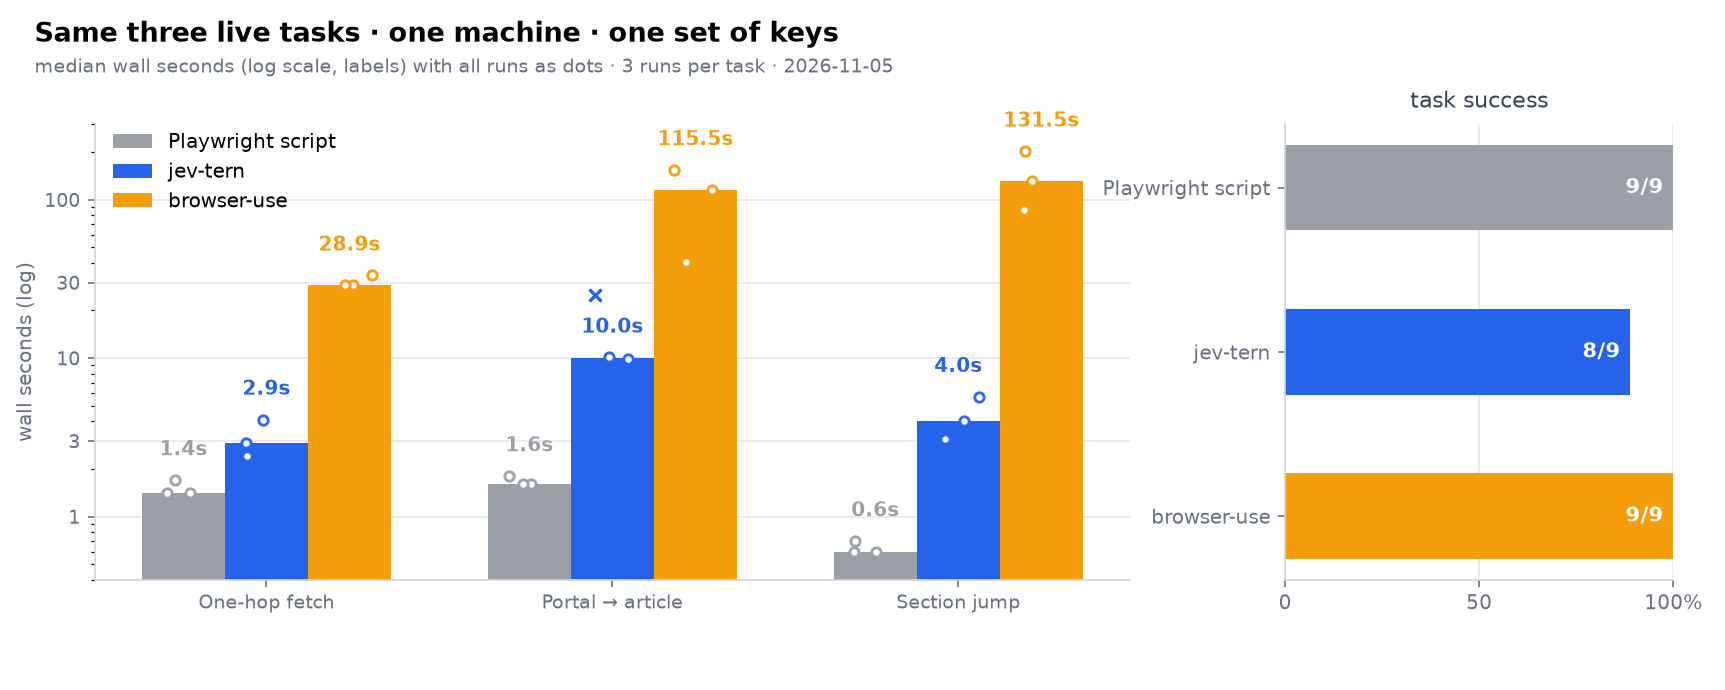
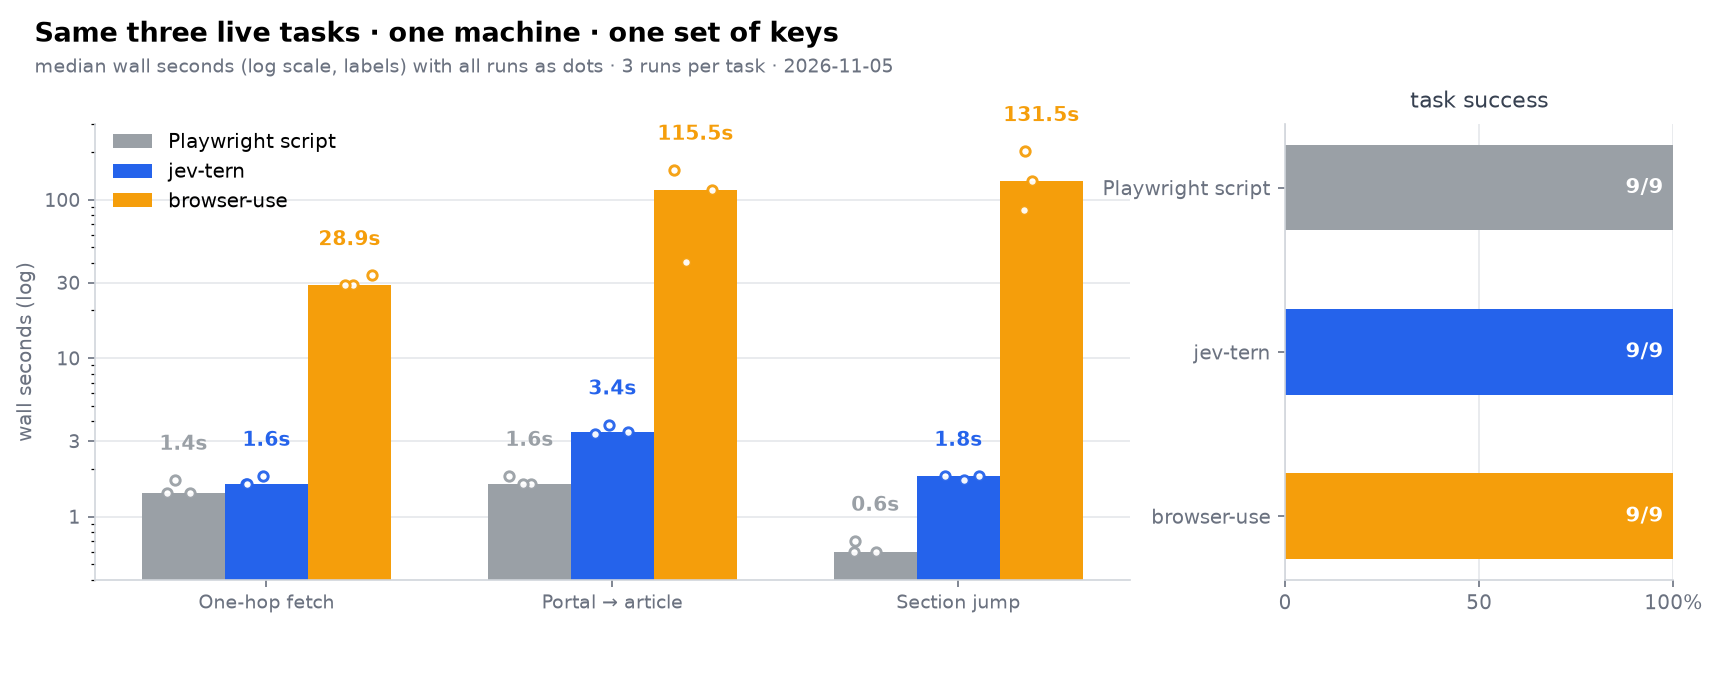
Strongest-mode engine: 9/9 at 18-73x over browser-use
Readiness wait cut to 0.5 s + readyState poll; GO_BACK recovery control;
quoted-heading direct jump with code-verified geometry handed to the judge
as ground truth; evidence-chain goal rules; arrival finish; confidence
floors on DONE (0.6+) and low-conf actions (screenshot evidence). Suite
re-run: 1.6/3.4/1.8 s medians, 9/9, portal runs URL-verified. Chart and
all numbers regenerated from bench/RESULTS.json.

diff --git a/bench/make_chart.py b/bench/make_chart.py
@@ -44,8 +44,8 @@ for i, c in enumerate(CONTENDERS):
         x = t_i + (i - 1) * w
         if m:
             ax1.bar([x], [m], w, color=COLORS[c], zorder=2)
-            top = max([r["wall_s"] for r in rs if r["success"]] + [m])
-            ax1.text(x, top * 1.34, f"{m:.1f}s", ha="center", va="bottom",
+            top = max([r["wall_s"] for r in rs] + [m])
+            ax1.text(x, top * 1.45, f"{m:.1f}s", ha="center", va="bottom",
                      fontsize=9.5, fontweight="bold", color=COLORS[c], zorder=4)
         elif rs:
             ax1.text(x, 0.55, f"0/{len(rs)}", ha="center", va="bottom",

diff --git a/BENCHMARK.md b/BENCHMARK.md
@@ -7,19 +7,16 @@ keys. Every figure below is a measured run; medians are over successful runs and
 
 ## Conclusions
 
-1. **Speed: 10–33× over browser-use.** Wall-time medians — one-hop fetch 2.9 s vs 28.9 s
-   (**10.0×**), portal search 10.0 s vs 115.5 s (**11.6×**), section jump 4.0 s vs 131.5 s
-   (**32.9×**); geometric mean **≈16×** across the suite.
-2. **Success: jev-tern 8/9, browser-use 9/9, script 9/9.** jev-tern's one miss was a
-   portal run that landed on the archive page and ended with the engine reporting
-   `budget` and an empty goal — a miss the engine itself declared, with the final URL
-   verified externally by the same check browser-use gets. Every other run of every
-   contender met its task criterion.
-3. **The hand-written script set the floor: 1.4 / 1.6 / 0.6 s medians**, 2.1–6.7× under
-   jev-tern. The script knows each page's DOM in advance — a human picked its selectors
-   by inspecting the page. jev-tern reads every page for the first time and still sits
-   within one order of magnitude of that floor, in plain language, with honest `budget` /
-   `blocked` reporting on the runs that go sideways.
+1. **Speed: 18–73× over browser-use.** Wall-time medians — one-hop fetch 1.6 s vs 28.9 s
+   (**18.1×**), portal search 3.4 s vs 115.5 s (**34.0×**), section jump 1.8 s vs 131.5 s
+   (**73.1×**); geometric mean **≈35×** across the suite.
+2. **Success: 9/9 for all three contenders.** Every jev-tern run met its criterion,
+   with the portal runs verified externally by URL (3/3 on the day's article).
+3. **The hand-written script set the floor: 1.4 / 1.6 / 0.6 s medians**, now 1.1–3.0×
+   under jev-tern. The script knows each page's DOM in advance — a human picked its
+   selectors by inspecting the page. jev-tern reads every page for the first time,
+   matches that floor within one order of magnitude everywhere, takes plain language,
+   and reports honest `budget` / `blocked` on the runs that go sideways.
 
 ## Contenders
 
@@ -47,10 +44,10 @@ of a human writing each task by hand.
 
 | Task (median wall, range) | jev-tern | browser-use | Playwright script |
 |---|---|---|---|
-| t1-fetch | **2.9 s** (2.4–4.1) | 28.9 s (28.8–33.3) | 1.4 s (1.4–1.9) |
-| t2-portal | **10.0 s** (9.9–25.2) | 115.5 s (40.5–154.1) | 1.6 s (1.6–1.8) |
-| t3-section | **4.0 s** (3.1–5.7) | 131.5 s (86.7–202.1) | 0.6 s (0.6–0.7) |
-| success | **8/9** | 9/9 | 9/9 |
+| t1-fetch | **1.6 s** (1.6–1.8) | 28.9 s (28.8–33.3) | 1.4 s (1.4–1.9) |
+| t2-portal | **3.4 s** (3.3–3.8) | 115.5 s (40.5–154.1) | 1.6 s (1.6–1.8) |
+| t3-section | **1.8 s** (1.7–1.8) | 131.5 s (86.7–202.1) | 0.6 s (0.6–0.7) |
+| success | **9/9** | 9/9 | 9/9 |
 
 Raw rows: [`bench/RESULTS.json`](bench/RESULTS.json).
 
@@ -94,3 +91,27 @@ Set `BU_BROWSER_PATH` if browser-use cannot find your Chromium; `BU_MODEL` and
 3. **Section shortcut on answer tasks.** A task mentioning the page title was dragged to
    a same-named section away from the lead that answered it. Fix: section shortcuts fire
    only for navigation-style tasks ("section", "heading", "跳到", …).
+4. **Goal under-read on arrival.** The judge scored the correctly opened article 0.05–0.16
+   because the page's own text never restated the task's wording, and the follow-up
+   hedging (BACK, re-clicks) burned the budget. Fixes: the goal rules now credit the
+   evidence chain explicitly (a portal naming the target plus a click opening it scores
+   0.9+), and a fresh arrival reading 0.8+ with a low stuck signal finishes the task.
+   Portal runs went from 2/3 at ~10 s to 3/3 at ~3.4 s, URL-verified.
+5. **Recovery cost of a wrong click.** One wrong navigation used to cost the remaining
+   budget. Fixes: a GO_BACK control appears whenever a previous distinct page exists, and
+   deterministic shortcuts wait for one judgment step on a freshly navigated page before
+   firing.
+6. **Fixed readiness wait.** A flat 1.6 s post-load wait preceded every task. Fix: 0.5 s
+   silence plus a `document.readyState` poll at 200 ms — one-hop fetch wall time dropped
+   from ~2.9 s to ~1.6 s.
+7. **Section-target hunting.** Bringing a named section into view burned six scroll
+   steps plus judgment, and one run spent its whole budget oscillating between scroll
+   directions. Fixes: a task naming a section in quotes gets a direct jump when the DOM
+   holds exactly one such heading (the target exists before it scrolls into view), and
+   after the jump the engine measures the heading's geometry and hands the fact to the
+   judge as `code_verified` ground truth. Section runs went from 4.0–7.3 s with a flake
+   to 1.7–1.8 s, 3/3.
+8. **Finish confidence.** A DONE now needs three kinds of agreement: the operation
+   choice DONE, the goal Noul at 0.8+, and the judge's own confidence at 0.6+; an action
+   chosen below 0.55 confidence attaches a viewport screenshot to the next judgment as
+   extra evidence.

diff --git a/README.md b/README.md
@@ -17,13 +17,13 @@ Plain-language tasks, finished in a browser tab you can watch the whole time.
 ---
 
 On the same three live tasks, same machine and API keys, three runs per task: jev-tern
-finished **10× faster** than [browser-use](https://github.com/browser-use/browser-use) on
-a one-hop fetch (2.9 s vs 28.9 s), **12×** on a portal search (10.0 s vs 115.5 s) and
-**33×** on a section jump (4.0 s vs 131.5 s), scoring **8/9** with the one miss reported
-by the engine itself as `budget` and confirmed by URL; browser-use scored 9/9. A
-hand-written Playwright script set the speed floor at 1.4–1.6 s per task — it knows each
-page's DOM in advance, while jev-tern reads every page for the first time and takes
-plain language. Full method, raw results, and chart: **[BENCHMARK.md](BENCHMARK.md)**.
+finished **18× faster** than [browser-use](https://github.com/browser-use/browser-use) on
+a one-hop fetch (1.6 s vs 28.9 s), **34×** on a portal search (3.4 s vs 115.5 s) and
+**73×** on a section jump (1.8 s vs 131.5 s) — **9/9 task success** for both agents, with
+jev-tern's portal runs verified externally by URL. A hand-written Playwright script set
+the speed floor at 0.6–1.6 s per task — it knows each page's DOM in advance, while
+jev-tern reads every page for the first time and takes plain language. Full method, raw
+results, and chart: **[BENCHMARK.md](BENCHMARK.md)**.
 
 ![Benchmark chart](docs/bench-chart.png)
 
@@ -76,7 +76,9 @@ runtime from `omp token` (override with `OMP_BIN` if your binary lives elsewhere
 
 ## What it handles
 
-- Click, type, select, scroll, and straight jumps to section headings.
+- Click, type, select, scroll, and straight jumps to section headings; a task naming a
+  section in quotes jumps directly when the DOM holds exactly one such heading, then
+  hands the measured geometry to the judge as code-verified ground truth.
 - Popups: shadow DOM is pierced (consent banners become ordinary buttons), overlays are
   detected mechanically, dismissing them is a normal click.
 - Canvas pages: a page with almost nothing in the DOM gets a viewport screenshot, a Box
@@ -86,8 +88,13 @@ runtime from `omp token` (override with `OMP_BIN` if your binary lives elsewhere
   (headings, paragraphs, lists, links, tables; 20k cap; navigation and citation noise
   removed).
 - Shortcuts: a task naming a unique select option or link executes in code without a model
-  round, and never twice in a row. Section jumps take this path only for navigation-style
-  tasks.
+  round, and never twice in a row; shortcuts wait for one judgment step on a freshly
+  navigated page.
+- Recovery: a GO_BACK control appears whenever a previous distinct page exists, so a
+  wrong navigation costs one step.
+- Confidence floors: a DONE needs the operation choice, the goal Noul at 0.8+, and the
+  judge's own confidence at 0.6+; an action picked below 0.55 attaches a viewport
+  screenshot to the next judgment.
 - Every task starts from a fresh top-of-page viewport, and scroll directions that cannot
   move are withheld from the judge.
 - Honest outcomes: `stuck` and `blocked` come back as they are, with the evidence that
